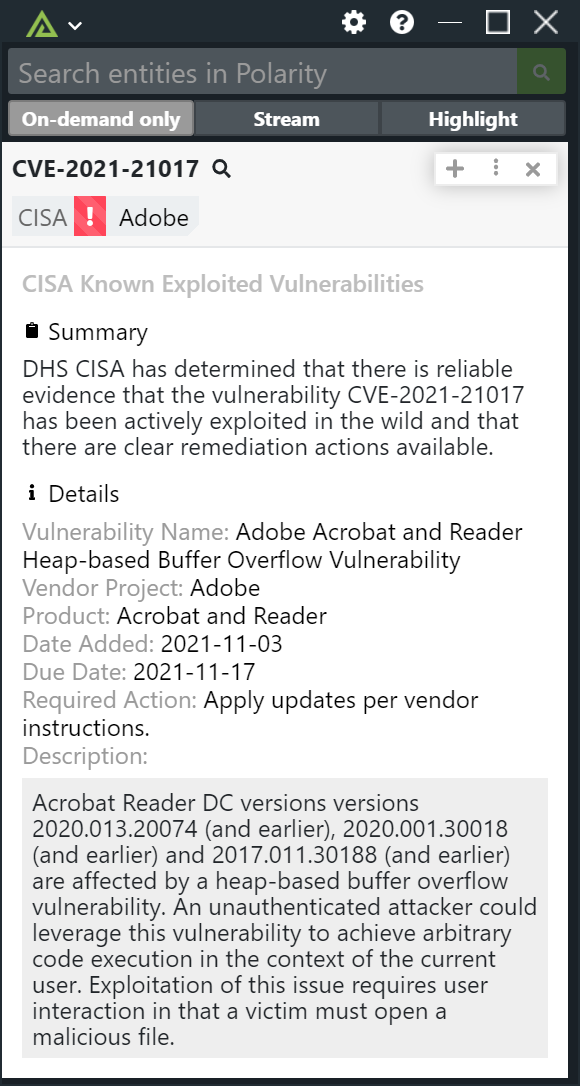
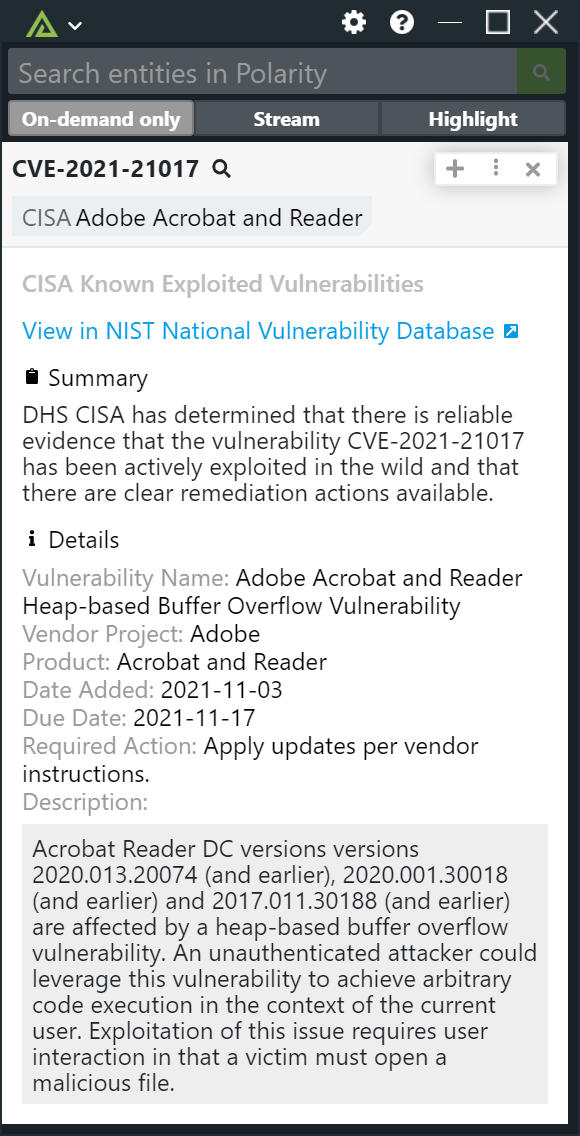
Add external link, update summary tags

diff --git a/styles/style.less b/styles/style.less
@@ -1,5 +1,3 @@
-@warning-color: #FF4559;
-
 .p-block{
   margin-top: 5px;
   background-color: #eee;
@@ -11,39 +9,7 @@
   word-break: break-word !important;
 }
 
-.danger-summary-tag{
-  padding: 0 !important;
-
-  .icon-container{
-    background-color: @warning-color;
-    height: 100%;
-    padding: 3px 2px;
-    margin-bottom: 0px;
-    display: inline-block;
-
-    svg{
-      margin-bottom: 1px;
-    }
-  }
-
-  .tag {
-    padding: 0.25em 0em 0.25em 0.25em;
-    display: inline-block;
-  }
-
-  .data {
-    padding: 0.25em 0.4em 0.25em 0.25em;
-    display: inline-block;
-  }
-
-  .stripe-bg {
-    color: white;
-    background: repeating-linear-gradient(
-            45deg,
-            @warning-color,
-            @warning-color 5px,
-            lighten(@warning-color,5%) 5px,
-            lighten(@warning-color,5%) 10px
-    ) !important;
-  }
+.external-link{
+  font-size: 8px;
+  margin-bottom: 1px;
 }

diff --git a/integration.js b/integration.js
@@ -94,6 +94,20 @@ async function loadVulnList() {
   }
 }
 
+
+function _getSummaryTags(searchResult){
+  const tags = [];
+  let vendor = searchResult.vendorProject;
+  let product = searchResult.product;
+
+  if(product.toLowerCase().startsWith(vendor.toLowerCase())){
+    tags.push(product);
+  } else {
+    tags.push(`${vendor} ${product}`);
+  }
+
+  return tags;
+}
 /**
  *
  * @param entities
@@ -110,10 +124,7 @@ function doLookup(entities, options, cb) {
       lookupResults.push({
         entity,
         data: {
-          summary: [{
-            type: 'danger',
-            text: searchResult.vendorProject
-          }],
+          summary: _getSummaryTags(searchResult),
           details: searchResult
         }
       });

diff --git a/config/config.js b/config/config.js
@@ -50,14 +50,6 @@ module.exports = {
       file: './templates/block.hbs'
     }
   },
-  summary: {
-    component: {
-      file: './components/summary.js'
-    },
-    template: {
-      file: './templates/summary.hbs'
-    }
-  },
   request: {
     // Provide the path to your certFile. Leave an empty string to ignore this option.
     // Relative paths are relative to the er integration's root directory

diff --git a/README.md b/README.md
@@ -8,7 +8,7 @@ The Polarity - DHS CISA Known Exploited Vulnerabilities Integration returns info
 
 The integration requires network access to the CISA Known Vulnerability List available here: https://www.cisa.gov/sites/default/files/feeds/known_exploited_vulnerabilities.json
 
-The integration will automatically update the list every night at midnight.  The list is also reloaded anytime the integration is restarted.
+The integration will automatically refresh the list every night at midnight.  The list is also reloaded anytime the integration is restarted.
 
 Check out the integration below:
 
